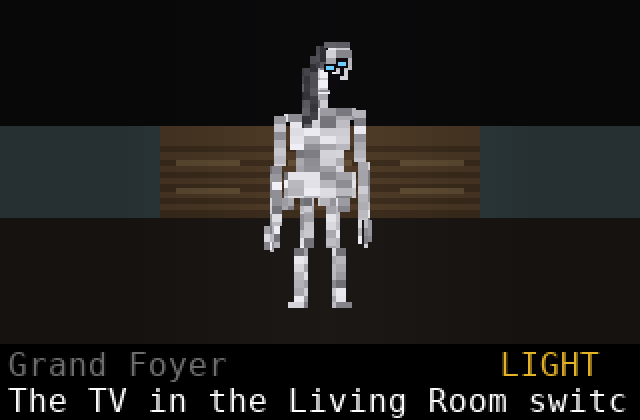
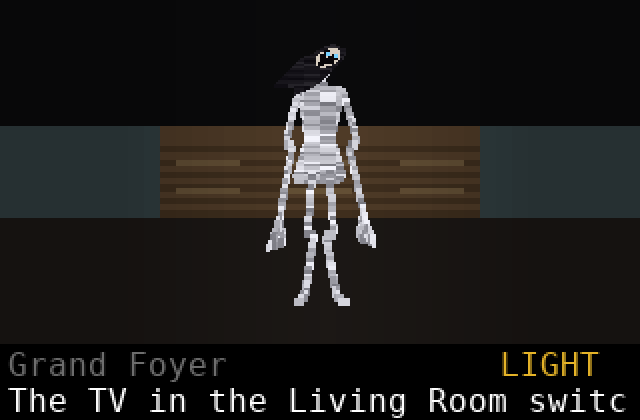
Make Ysolde thinner with black hair and a pale face
She is drawn from the full game's character sheet now: very thin limbs,
black lank hair, a pale gaunt face with small black eyes that glow blue,
tear streaks and an open jaw. The icon's hair is black too.

Claude-Session: https://claude.ai/code/session_01ABga3j6ZJ15ibdVoXrUo56

Changed region(s): [[0.4062, 0.0929, 0.5938, 0.7429]]

diff --git a/calc/GHCRYPT.py b/calc/GHCRYPT.py
@@ -240,7 +240,7 @@ def sprites(g, zb, ca, sa):
     for fwd, side, kind in order:
         cx = (side / fwd) / (FOV * 0.5 * 1.15)
         scol = (cx + 1) / 2 * COLS
-        w = 0.75 if kind == "ys" else SPR[kind][0]
+        w = 0.6 if kind == "ys" else SPR[kind][0]
         half = w / 2 / fwd / (FOV * 0.5 * 1.15) * COLS / 2
         h = VH * 1.35 / fwd
         top = (VH - h) / 2
@@ -276,57 +276,125 @@ def bottom(g, prompt):
     text(4, VH + 33, prompt[:31], WHITE)
 
 
-# Ysolde: tall, thin, made of static. Small head tilted hard on a long neck,
-# lank dark hair, short tattered dress, arms hanging past the knees with
-# too-long fingers, black tear streaks, jaw hanging open, small blue eyes.
-# Parts are (u0, u1, v0, v1, kind): u across her width, v up from the floor.
-# Kinds: 0 static, 1 hair, 2 dark, 3 eye. Drawn in that order.
-YS = (
-    (.40, .45, .02, .22, 0), (.42, .47, .22, .40, 0), (.37, .45, 0, .02, 0),
-    (.55, .60, .02, .22, 0), (.53, .58, .22, .40, 0), (.55, .63, 0, .02, 0),
-    (.36, .64, .40, .50, 0), (.35, .39, .36, .40, 0), (.42, .46, .35, .40, 0),
-    (.50, .54, .37, .40, 0), (.58, .62, .35, .40, 0),
-    (.41, .59, .50, .58, 0), (.38, .62, .58, .69, 0), (.36, .50, .68, .71, 0), (.50, .64, .69, .73, 0),
-    (.32, .36, .52, .70, 0), (.30, .34, .30, .52, 0), (.28, .29, .21, .30, 0), (.30, .31, .20, .30, 0),
-    (.32, .33, .22, .30, 0), (.64, .68, .53, .72, 0), (.66, .70, .32, .53, 0), (.66, .67, .23, .32, 0),
-    (.68, .69, .22, .32, 0), (.70, .71, .24, .32, 0),
-    (.48, .53, .72, .79, 0), (.49, .54, .78, .82, 0),
-    (.47, .58, .80, .83, 0), (.48, .61, .83, .87, 0), (.50, .63, .87, .91, 0), (.52, .63, .91, .94, 0),
-    (.54, .62, .94, .96, 0),
-    (.43, .46, .66, .88, 1), (.46, .49, .69, .92, 1), (.49, .52, .88, .96, 1), (.52, .62, .95, .975, 1),
-    (.52, .56, .865, .895, 2), (.57, .61, .88, .91, 2), (.54, .58, .80, .855, 2),
-    (.535, .545, .835, .87, 2), (.585, .595, .85, .885, 2),
-    (.53, .55, .875, .887, 3), (.58, .60, .89, .902, 3),
-)
+# Ysolde, drawn from the character sheet in the full game (a 256 x 640 picture):
+# very thin and tall, small head tilted hard on a long neck, black lank hair,
+# a pale gaunt face with black eyes that glow small and cold blue, black tear
+# streaks, jaw hanging open, short tattered dress, arms past the knees.
+# Built once into thin slabs (u0, u1, v0, v1, kind); kinds draw in order:
+# 0 static body, 1 hair, 2 face, 3 black, 4 eye glow.
+YS = []
+
+
+def _poly_slabs(pts, kind, step):
+    ys = [p[1] for p in pts]
+    y = min(ys)
+    n = len(pts)
+    while y < max(ys):
+        yc = y + step / 2
+        xs = []
+        for i in range(n):
+            x1, y1 = pts[i]
+            x2, y2 = pts[(i + 1) % n]
+            if (y1 <= yc < y2) or (y2 <= yc < y1):
+                xs.append(x1 + (yc - y1) * (x2 - x1) / (y2 - y1))
+        if len(xs) >= 2:
+            YS.append((min(xs) / 256, max(xs) / 256, 1 - (y + step) / 640, 1 - y / 640, kind))
+        y += step
+
+
+def _limb(pts, w, kind=0):
+    for i in range(0, len(pts) - 2, 2):
+        x1, y1, x2, y2 = pts[i], pts[i + 1], pts[i + 2], pts[i + 3]
+        n = max(1, int(abs(y2 - y1) / 8))
+        for k in range(n):
+            t0 = k / n
+            t1 = (k + 1) / n
+            xm = x1 + (x2 - x1) * (t0 + t1) / 2
+            ya = y1 + (y2 - y1) * t0
+            yb = y1 + (y2 - y1) * t1
+            hw = w * .4 + abs(x2 - x1) / n / 3
+            YS.append(((xm - hw) / 256, (xm + hw) / 256, 1 - max(ya, yb) / 640 - .004, 1 - min(ya, yb) / 640 + .004, kind))
+
+
+def _oval(cx, cy, rx, ry, kind, step, a=0.0):
+    ca = math.cos(.55)
+    sa = math.sin(.55)
+    pts = []
+    for i in range(16):
+        t = 2 * math.pi * i / 16
+        lx = cx + rx * math.cos(t) * math.cos(a) - ry * math.sin(t) * math.sin(a)
+        ly = cy + rx * math.cos(t) * math.sin(a) + ry * math.sin(t) * math.cos(a)
+        pts.append((140 + lx * ca - ly * sa, 50 + lx * sa + ly * ca))
+    _poly_slabs(pts, kind, step)
+
+
+def _build_ys():
+    ca = math.cos(.55)
+    sa = math.sin(.55)
+    # body
+    _limb([128, 120, 132, 88, 140, 66], 11)
+    _poly_slabs([(98, 122), (128, 112), (160, 126), (150, 210), (146, 260), (110, 260), (106, 210)], 0, 8)
+    hem = [(108, 250), (148, 250), (162, 330)]
+    x = 162
+    while x > 94:
+        hem.append((x - 4.5, 330 + (18 if int(x) % 2 else 6)))
+        x -= 9
+    hem.append((94, 330))
+    _poly_slabs(hem, 0, 6)
+    _limb([118, 320, 112, 460, 120, 470, 108, 612, 98, 628], 9)
+    _limb([140, 320, 146, 462, 136, 474, 150, 610, 162, 630], 9)
+    _limb([100, 128, 84, 250, 92, 262, 76, 420], 7)
+    _limb([158, 128, 176, 248, 166, 262, 184, 410], 7)
+    for x0, y0, sg in ((76, 420, -1), (184, 410, 1)):
+        for f in range(5):
+            _limb([x0, y0, x0 + sg * (f * 4 - 6), y0 + 52 + (f % 2) * 8, x0 + sg * (f * 5 - 4), y0 + 70 + f * 3], 2.6)
+    _oval(0, 0, 17, 25, 0, 4)
+    # black lank hair hanging from the tilted head
+    hair = [(-18, -6), (-27, 30), (-24, 96), (-6, 70), (8, 100), (20, 60), (17, -6), (10, -24), (-10, -24)]
+    _poly_slabs([(140 + lx * ca - ly * sa, 50 + lx * sa + ly * ca) for lx, ly in hair], 1, 4)
+    # pale gaunt face, black eyes, tear streaks, open jaw
+    _oval(0, 3, 13, 21, 2, 3)
+    for sg in (-1, 1):
+        _oval(sg * 6, -5, 3.5, 4, 3, 2, sg * .3)
+        p0 = (sg * 6, 0)
+        p1 = (sg * 7, 11)
+        _limb([140 + p0[0] * ca - p0[1] * sa, 50 + p0[0] * sa + p0[1] * ca,
+               140 + p1[0] * ca - p1[1] * sa, 50 + p1[0] * sa + p1[1] * ca], 1.5, 3)
+    _oval(0, 16, 3.5, 8, 3, 2)
+    for sg in (-1, 1):
+        _oval(sg * 6, -5, 1.4, 1.4, 4, 2)
+    YS.sort(key=lambda r: r[4])
+
+
+COLS_YS = (None, (22, 20, 26), (215, 205, 192), (8, 6, 8), (120, 210, 255))
 
 
 def ys_column(x, left, wid, top, h):
+    if not YS:
+        _build_ys()
     x1 = x + CWID
     for u0, u1, v0, v1, kind in YS:
         pa = int(left + u0 * wid)
         pb = int(left + u1 * wid) + 1
-        if kind == 3:
+        if kind == 4:
             pb = max(pb, pa + 2)
         a = max(x, pa)
         b = min(x1, pb)
         if b - a < 1:
             continue
         y0 = int(top + h * (1 - v1))
-        y1 = min(VH, int(top + h * (1 - v0)))
-        if y0 >= VH:
+        y1 = min(VH, int(top + h * (1 - v0)) + 1)
+        if y0 >= VH or y1 <= 0:
             continue
-        if kind == 3:
-            rect(a, max(0, y0), b - a, max(2, y1 - y0), (110, 205, 255))
-        elif kind == 2:
-            rect(a, max(0, y0), b - a, max(1, y1 - y0), (12, 10, 14))
+        if kind == 0:
+            g = random.randint(120, 245)
+            c = (g, g, g + 8 if g < 248 else g)
+        elif kind == 1:
+            g = random.randint(0, 30)
+            c = (g + 12, g + 10, g + 16)
         else:
-            st = max(2, int(h * .03))
-            lo, hi = (110, 245) if kind == 0 else (45, 100)
-            y = y0
-            while y < y1:
-                g = random.randint(lo, hi)
-                rect(a, max(0, y), b - a, max(1, min(st, y1 - y)), (g, g, g + 6))
-                y += st
+            c = COLS_YS[kind]
+        rect(a, max(0, y0), b - a, max(2 if kind == 4 else 1, y1 - max(0, y0)), c)
 
 
 # ---------- text screens ----------

diff --git a/calc/GHICONS.py b/calc/GHICONS.py
@@ -329,7 +329,7 @@ def crypt(x, y, c):
         shape([(px + rx * math.cos(2 * math.pi * i / n), py + ry * math.sin(2 * math.pi * i / n)) for i in range(n)], col)
 
     # hair hanging behind
-    shape([(-9, -4), (-14, 12), (-12, 24), (-4, 18), (3, 25), (9, 15), (9, -4), (0, -12)], (85, 85, 90))
+    shape([(-9, -4), (-14, 12), (-12, 24), (-4, 18), (3, 25), (9, 15), (9, -4), (0, -12)], (25, 22, 30))
     # neck and narrow sloped shoulders
     nx, ny = rot(0, 11)
     poly([nx - 3, nx + 3, x + 2, x - 4], [ny, ny, y + 16, y + 16], (150, 150, 155))
